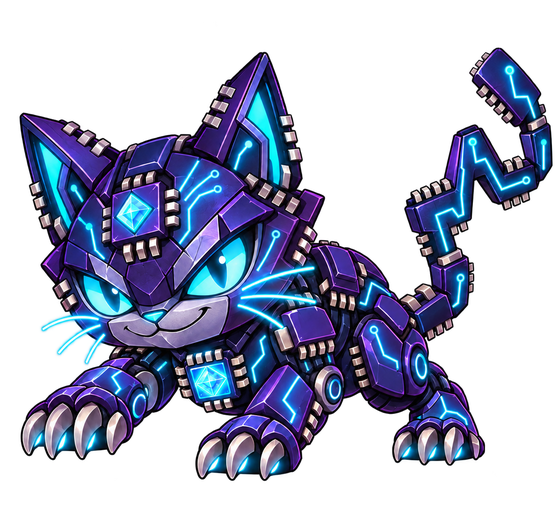
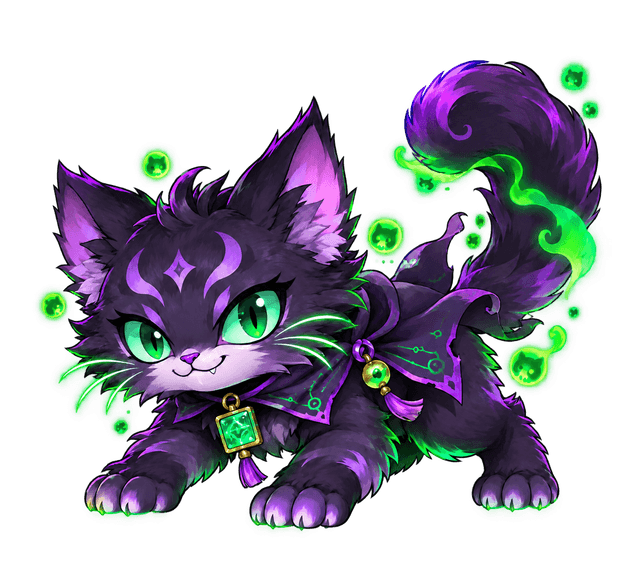
Redesign enemies with dark fantasy themes

diff --git a/app/globals.css b/app/globals.css
@@ -887,18 +887,42 @@ body {
 }
 
 .enemy-chip-cat .enemy-target-wrap {
-  height: 112px;
-  width: 116px;
+  height: 126px;
+  width: 136px;
 }
 
 .enemy-laser-bear .enemy-target-wrap {
-  height: 132px;
-  width: 148px;
+  height: 146px;
+  width: 164px;
 }
 
 .enemy-chip-cat .rtl-dummy,
 .enemy-laser-bear .rtl-dummy {
   transform-origin: 60% 75%;
+}
+
+.enemy-chip-cat .rtl-dummy {
+  filter:
+    drop-shadow(0 8px 10px oklch(0.05 0.02 250 / 42%))
+    drop-shadow(0 0 9px oklch(0.74 0.25 145 / 32%));
+}
+
+.enemy-laser-bear .rtl-dummy {
+  filter:
+    drop-shadow(0 8px 10px oklch(0.05 0.02 250 / 42%))
+    drop-shadow(0 0 10px oklch(0.68 0.25 285 / 38%));
+}
+
+.enemy-chip-cat .rtl-dummy-label {
+  background: oklch(0.18 0.07 145 / 92%);
+  border-color: oklch(0.76 0.24 145 / 72%);
+  color: oklch(0.9 0.16 145);
+}
+
+.enemy-laser-bear .rtl-dummy-label {
+  background: oklch(0.17 0.07 280 / 92%);
+  border-color: oklch(0.72 0.23 275 / 72%);
+  color: oklch(0.9 0.13 275);
 }
 
 .rtl-dummy {
@@ -942,6 +966,12 @@ body {
   background: oklch(0.22 0.08 25 / 92%);
   border-color: oklch(0.69 0.22 28 / 70%);
   color: oklch(0.92 0.11 75);
+}
+
+.final-boss-battle .rtl-dummy-label {
+  background: linear-gradient(90deg, oklch(0.13 0.06 285 / 94%), oklch(0.24 0.11 315 / 94%));
+  border-color: oklch(0.72 0.17 85 / 78%);
+  color: oklch(0.92 0.12 85);
 }
 
 .boss-shard {
@@ -1211,12 +1241,12 @@ body {
     width: 120px;
   }
   .enemy-chip-cat .enemy-target-wrap {
-    height: 86px;
-    width: 84px;
+    height: 94px;
+    width: 98px;
   }
   .enemy-laser-bear .enemy-target-wrap {
-    height: 96px;
-    width: 102px;
+    height: 106px;
+    width: 114px;
   }
   .final-boss-battle {
     grid-template-columns: 84px minmax(16px, 1fr) 146px;

diff --git a/app/page.tsx b/app/page.tsx
@@ -800,10 +800,10 @@ function BattleArena({
   enemy: EnemyKind;
 }) {
   const enemyCatalog: Record<EnemyKind, { src: string; label: string; boss: boolean; final: boolean }> = {
-    'chip-cat': { src: './mascot/chip-cat.png', label: 'CHIP CAT', boss: false, final: false },
-    'laser-bear': { src: './mascot/laser-bear.png', label: 'LASER BEAR', boss: false, final: false },
+    'chip-cat': { src: './mascot/chip-cat.png', label: 'VENOM CAT', boss: false, final: false },
+    'laser-bear': { src: './mascot/laser-bear.png', label: 'THUNDER BEAR', boss: false, final: false },
     'timing-boss': { src: './mascot/gate-level-timing-boss-display.png', label: 'TIMING BOSS', boss: true, final: false },
-    'cosmic-emperor': { src: './mascot/cosmic-dark-emperor.png', label: 'FINAL BOSS', boss: true, final: true },
+    'cosmic-emperor': { src: './mascot/cosmic-dark-emperor.png', label: 'DARK IMMORTAL', boss: true, final: true },
   };
   const opponent = enemyCatalog[enemy];
   const rootsUnlocked = Object.values(elements).every((level) => level > 0);

diff --git a/README.md b/README.md
@@ -69,15 +69,15 @@ Repeated purchases increase that stone's visual intensity. The highest-level sto
 ### Battle targets and verdict animation
 
 <table>
-  <thead><tr><th>Chip Cat</th><th>Laser Bear</th><th>Timing Boss</th><th>Cosmic Dark Emperor</th></tr></thead>
+  <thead><tr><th>Dark Venom Spirit Cat</th><th>Dark Thunder Guardian Bear</th><th>Timing Boss</th><th>Dark Immortal Sovereign</th></tr></thead>
   <tbody>
     <tr>
-      <td align="center"><img src="public/mascot/chip-cat.png" width="180" alt="Cute robotic chip cat"></td>
-      <td align="center"><img src="public/mascot/laser-bear.png" width="190" alt="Cute purple robotic laser bear"></td>
+      <td align="center"><img src="public/mascot/chip-cat.png" width="180" alt="Fluffy dark and poison spirit cat with a jade circuit talisman"></td>
+      <td align="center"><img src="public/mascot/laser-bear.png" width="190" alt="Fluffy dark and lightning guardian bear with a rune bracer"></td>
       <td align="center"><img src="public/mascot/gate-level-timing-boss-display.png" width="210" alt="Gate-level timing boss built from damaged chips, gears, and timing traces"></td>
-      <td align="center"><img src="public/mascot/cosmic-dark-emperor.png" width="230" alt="Ultimate cosmic dark emperor final boss"></td>
+      <td align="center"><img src="public/mascot/cosmic-dark-emperor.png" width="230" alt="Dark xianxia sovereign with timing-wave and compute-array formations in ink-wash energy"></td>
     </tr>
-    <tr><td>Beginner</td><td>Intermediate</td><td>Advanced</td><td>Selected capstone labs</td></tr>
+    <tr><td>Beginner · Dark / Poison</td><td>Intermediate · Dark / Lightning</td><td>Advanced · Timing / Array</td><td>Selected capstones · Dark / Ink</td></tr>
   </tbody>
 </table>
 
